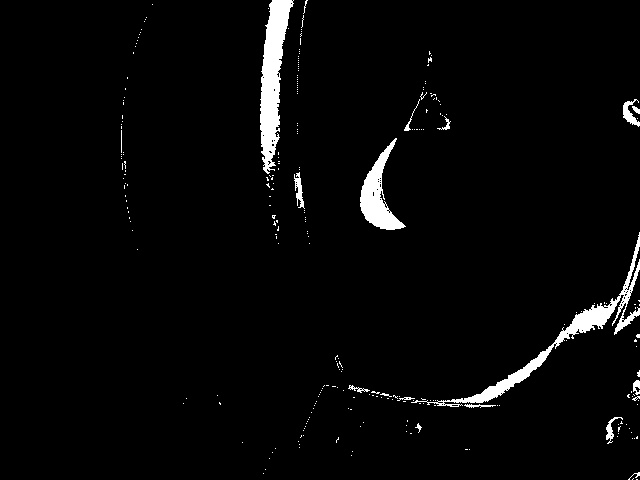
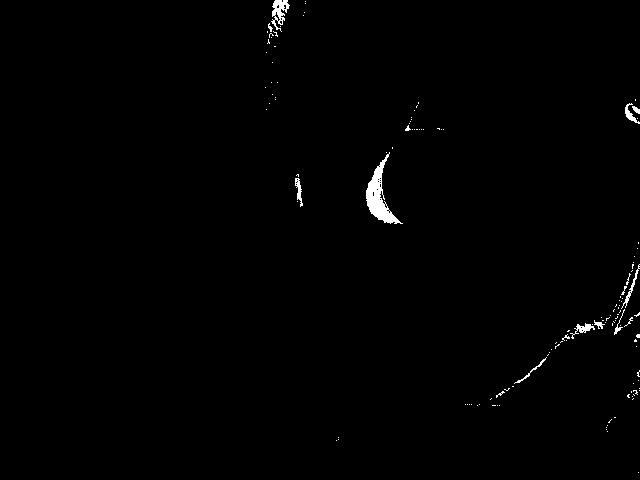
started using Gaussian blurring

diff --git a/mask_attempts.py b/mask_attempts.py
@@ -1,16 +1,26 @@
 import cv2
 import numpy as np
-from matploblib import pyplot as plt
+from matplotlib import pyplot as plt
 
 img = cv2.imread('yellow_buoy_images/buoypic.jpg',1)
 hsv = cv2.cvtColor(img, cv2.COLOR_BGR2HSV)
 
+kernel = np.ones((5,5), np.float32) / 32
+dst = cv2.filter2D(img,-1,kernel)
+
+hist,bins =  np.histogram(img.flatten(),256,[0,256])
+
 low_bound = np.array([35,50,50])
-hi_bound = np.array([70,100,100])
+hi_bound = np.array([50,100,100])
 
 mask = cv2.inRange(img, low_bound, hi_bound)
 mask_hsv = cv2.inRange(hsv, low_bound, hi_bound)
 
+plt.subplot(121),plt.imshow(img),plt.title('Original')
+plt.xticks([]),plt.yticks([])
+plt.subplot(122),plt.imshow(dst),plt.title('Averaging')
+plt.xticks([]),plt.yticks([])
+plt.show()
 while True:
     cv2.imshow('mask',mask)
     cv2.imshow('hsv',hsv)
